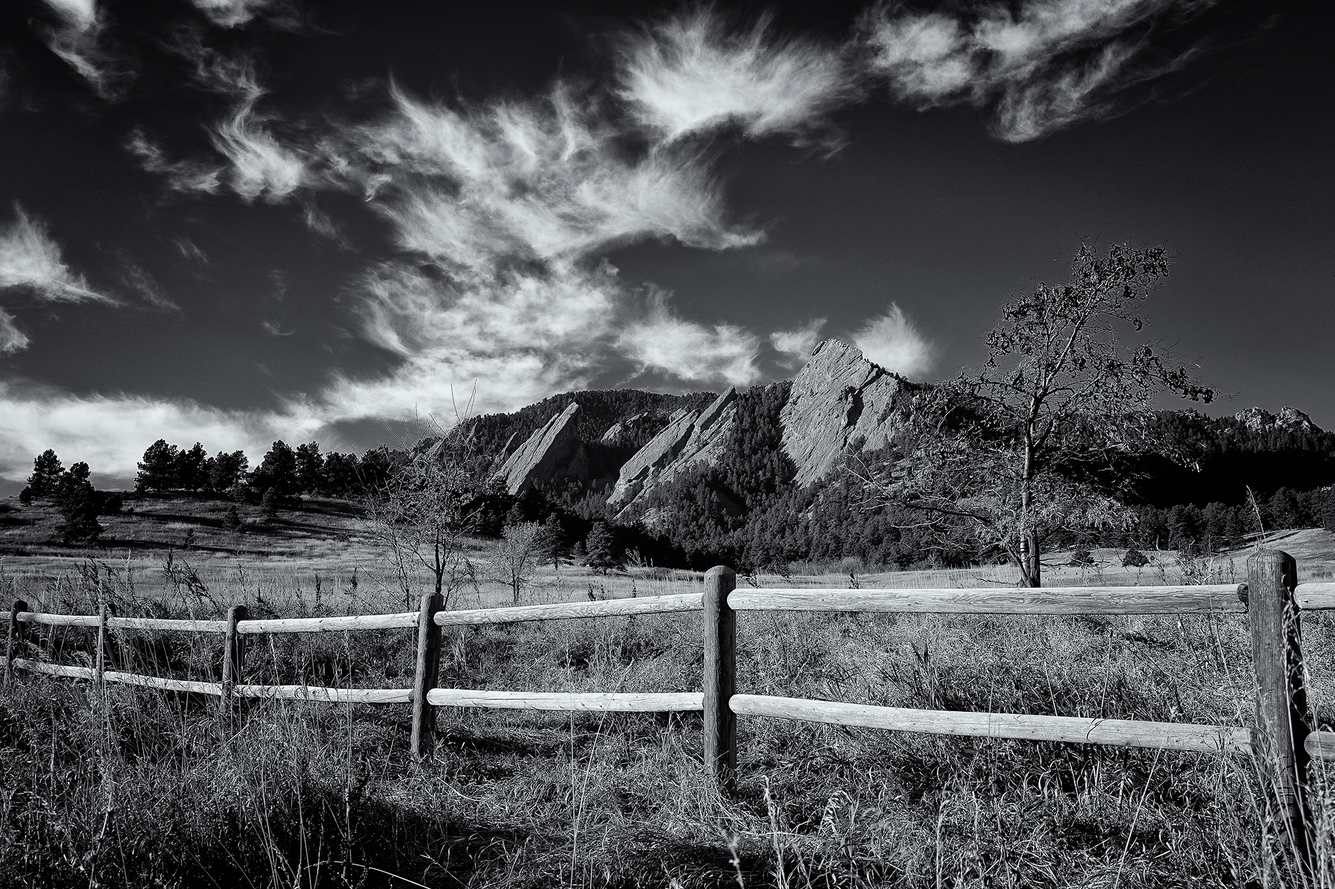
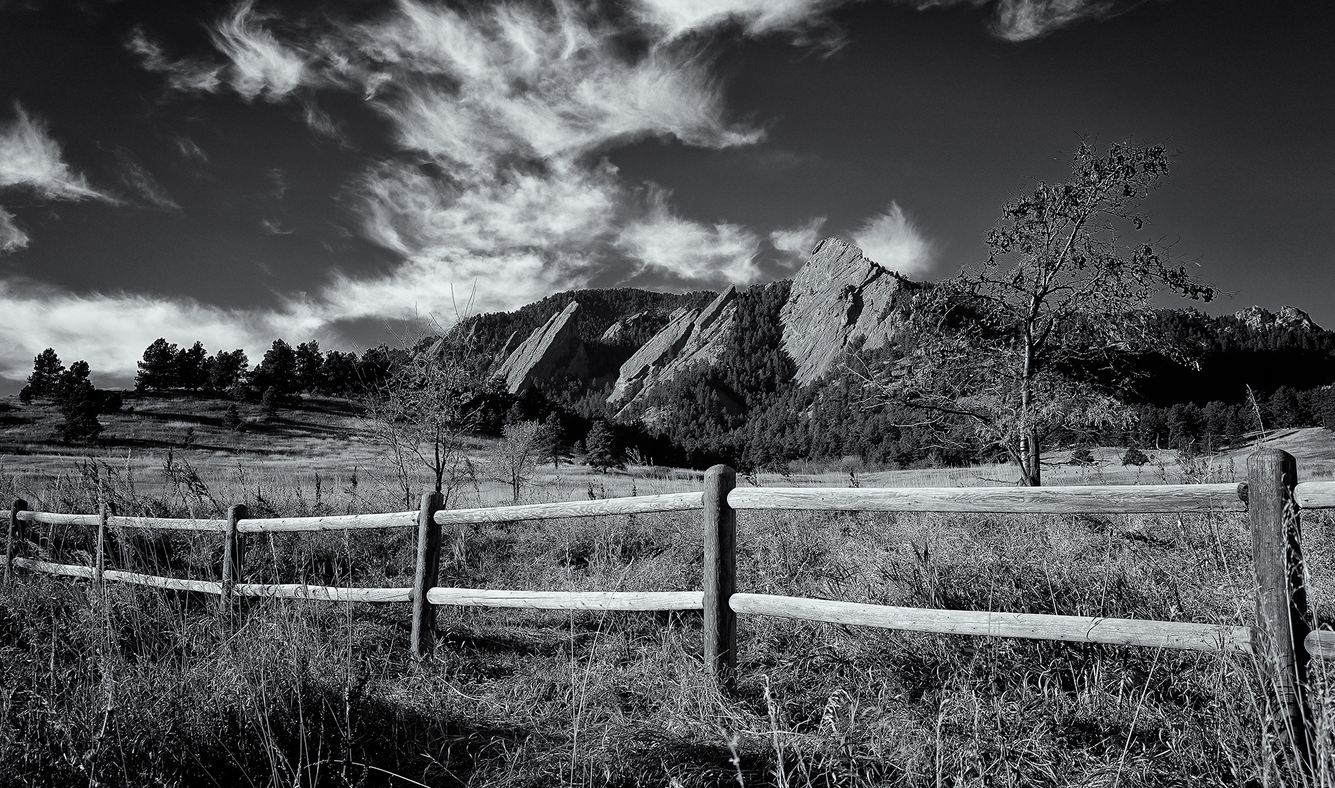
updates

diff --git a/app/public/js/templates/home.html b/app/public/js/templates/home.html
@@ -1,28 +1,80 @@
 <main>
-  <div class="row">
-    <div class="cover">
-      <img src="./images/other/canyonlands.jpg">
+  <div class="section-box" id="links">
+    <p>ENTER</p>
+    <p class="big-L" ng-show="!isBigLVisible" ng-click="isBigLVisible = !isBigLVisible">LF</p>
+    <div class="main-links" ng-show="isBigLVisible">
+      <p du-smooth-scroll="about" duration="1500" class="top-links">ABOUT LANE</p>
+      <p du-smooth-scroll="tool-belt" duration="2000" class="top-links">TOOL BELT</p>
+      <p du-smooth-scroll="projects" duration="2000" class="top-links">PROJECTS</p>
+      <a ui-sref="resume"><p class="top-links">RESUME</p></a>
+      <a ui-sref="contact"><p class="top-links">CONTACT</p></a>
     </div>
+  </div>
+  <div  ng-show="isBigLVisible" class="row">
+    <!-- <div class="cover">
+      <img src="./images/other/flatirons-min.jpg">
+    </div> -->
     <div class="info col-md-1"></div>
     <div class="info md-10">
-      <div class="thumbnail">
-        <div class="caption">
-          <p class="subtitles">About Lane</p class="subtitles">
-          <p class="summaries">
-            Lane Faison is a full-stack web developer currently studying at Galvanize in Denver, Colorado. Lane is a United States Marine Corps veteran and a graduate of the University of Colorado at Boulder with a degree in Mathematics. After college, Lane spent 18 months in the IT industry working as a technical recruiter. During that time he was exposed to a world of exciting and incredibly innovative companies. Wanting to be a part of the IT movement, Lane left the recruiting world to take on the six-month immersive web developer program at Galvanize.
-          </p>
-          <p class="subtitles">Goals</p class="subtitles">
-          <p class="summaries">
-            Lane's first goal is to soak up every ounce of knowledge he can while in the Galvanize program so he is well-prepared to take on a junior developer position upon graduation. This industry requires a never-ending pursuit of knowledge and it continues to evolve year after year. Thus, one of his goals is to keep up with trending technologies while never losing focus on the core tools he is best at. He would also like to be working full-time after graduation on a strong development team where he can learn something new every day from his colleagues. His final goal is to travel to Africa and Southeast Asia within the next 5 years.
-          </p>
-          <p class="subtitles" id="skills">Tools &amp; Technologies:</p>
-          <div ng-repeat="tool in $ctrl.tools" class='tech-divs' ng-mouseover="hover = true" ng-mouseleave="hover = false">
-            <img class="tech-logos" src="{{ tool.image_url }}">
-            <p class="tech-name" ng-show="hover">{{ tool.name }}</p>
+      <div class="section-box" id="about">
+        <span du-smooth-scroll="links" duration="1500" class="chevrons glyphicon glyphicon-chevron-up" aria-hidden="true"></span>
+        <div class="thumbnail">
+          <div class="caption">
+            <p class="subtitles">About Lane</p class="subtitles">
+            <p class="summaries">
+              Lane Faison is a full-stack web developer currently studying at Galvanize in Denver, Colorado. Lane is a United States Marine Corps veteran and a graduate of the University of Colorado at Boulder with a degree in Mathematics. After college, Lane spent 18 months in the IT industry working as a technical recruiter. During that time he was exposed to a world of exciting and incredibly innovative companies. Wanting to be a part of the IT movement, Lane left the recruiting world to take on the six-month immersive web developer program at Galvanize.
+            </p>
+            <p class="subtitles">Goals</p class="subtitles">
+            <p class="summaries">
+              Lane's first goal is to soak up every ounce of knowledge he can while in the Galvanize program so he is well-prepared to take on a junior developer position upon graduation. This industry requires a never-ending pursuit of knowledge and it continues to evolve year after year. Thus, one of his goals is to keep up with trending technologies while never losing focus on the core tools he is best at. He would also like to be working full-time after graduation on a strong development team where he can learn something new every day from his colleagues. His final goal is to travel to Africa and Southeast Asia within the next 5 years.
+            </p>
           </div>
         </div>
+        <span du-smooth-scroll="tool-belt" duration="1500" class="chevrons glyphicon glyphicon-chevron-down" aria-hidden="true"></span>
+      </div>
+      <div class="section-box" id="tool-belt">
+        <span du-smooth-scroll="links" duration="1500" class="chevrons glyphicon glyphicon-chevron-up" aria-hidden="true"></span>
+        <div class="thumbnail" id="tool-belt-thumbnail">
+          <div class="caption">
+            <p class="subtitles" id="skills">Tool Belt:</p>
+            <div ng-repeat="tool in $ctrl.tools" class='tech-divs' ng-mouseover="hover = true" ng-mouseleave="hover = false">
+              <img class="tech-logos" src="{{ tool.image_url }}">
+              <p class="tech-name" ng-show="hover">{{ tool.name }}</p>
+            </div>
+          </div>
+        </div>
+        <span du-smooth-scroll="projects" duration="1500" class="chevrons glyphicon glyphicon-chevron-down" aria-hidden="true"></span>
       </div>
     </div>
     <div class="info col-md-1"></div>
+  </div>
+  <!-- <div class="cover">
+    <img src="./images/other/presentation.png">
+  </div> -->
+  <div ng-show="isBigLVisible" class="chevrons">
+    <span du-smooth-scroll="links" duration="1500" class="chevrons glyphicon glyphicon-chevron-up"  id="projects" aria-hidden="true"></span>
+  </div>
+  <div ng-show="isBigLVisible" class="project-section">
+    <section class="projects-title">My Projects</section>
+    <div class='project-div'>
+      <div ng-repeat="project in $ctrl.projects" class="col-md-4">
+          <div class="thumbnail project-thumbnail">
+            <a class='no-decoration' ng-href="{{ project.project_url}}">
+              <img class="project_img" src="{{ project.image_url }}">
+            </a>
+            <div class="project-caption">
+              <h3 class="no-decoration">{{ project.title }}</h3>
+              <p class="project-description no-decoration">{{ project.description }}</p>
+            </div>
+          </div>
+      </div>
+    </div>
+  </div>
+  <div ng-show="isBigLVisible" class="cover">
+    <img src="./images/other/presentation.png">
+    <div du-smooth-scroll="links" duration="1000" class="text-over-image">
+      <span class="chevrons glyphicon glyphicon-chevron-up" aria-hidden="true"></span>
+      <p>Back to Top</p>
+    </div>
   </div>
 </main>

diff --git a/app/public/styles/home.css b/app/public/styles/home.css
@@ -2,27 +2,24 @@ main {
   min-width: 510px;
 }
 
-/************** COVER SECTION **************/
-
-.cover {
-  background: #000;
+.main-links a {
+  text-decoration: none;
 }
 
-.cover img {
-  width: 80%;
-  margin: 0 10%;
-  margin: #000;
+.main-links {
+  margin: 80px auto;
 }
 
 /************** ABOUT SECTION **************/
 .info {
-  margin: 20px 10%;
+  margin: 0 10%;
 }
 
 .info .thumbnail {
   background-color: #eee;
   border: 10px solid #333;
   padding: 0 10px;
+  margin-bottom: 0;
 }
 
 .caption .summaries {
@@ -61,4 +58,88 @@ main {
 .tech-name {
   padding-bottom: 50px;
   font-weight: bold;
+}
+
+/*********PROJECT TEST**********/
+.big-L {
+  opacity: 0.5;
+  color: #EA4533;
+  font-size: 250px;
+  font-weight: bold;
+  text-align: center;
+  filter: blur(3.5px);
+  transition: all 0.75s ease-in;
+}
+
+.big-L:hover {
+  opacity: 1;
+  cursor: default;
+  text-decoration: none;
+  filter: blur(0);
+  transform: rotate3d(1, 2, -1, 360deg);
+}
+
+.top-links {
+  color: #EA4533;
+  font-size: 50px;
+  font-weight: bold;
+  letter-spacing: 2px;
+  text-align: center;
+  filter: blur(1.5px);
+  transition: all 0.75s ease-in;
+}
+
+.top-links:hover {
+  letter-spacing: 100px;
+  cursor: default;
+  text-decoration: none;
+  transform: rotate3d(1, 0, 0, 360deg);
+  filter: blur(0);
+}
+
+.section-box {
+  width: 100%;
+  height: 800px;
+  display: flex;
+  flex-direction: column;
+  justify-content: center;
+}
+
+#about {
+  margin-top: 500px
+}
+
+#tool-belt {
+  margin-top: 500px
+  margin-bottom: 500px;
+}
+
+#tool-belt-thumbnail {
+  min-height: 350px;
+}
+
+#projects {
+  margin-top: 200px;
+}
+
+/************** COVER FOOTER SECTION **************/
+
+.cover {
+  background: #000;
+  position: relative;
+}
+
+.cover img {
+  width: 100%;
+  margin: #000;
+}
+
+.text-over-image {
+  position: absolute;
+  bottom: 0;
+  width: 100%;
+  text-align: center;
+  font-weight: bold;
+  color: #EA4533;
+  font-size: 30px;
 }

diff --git a/app/seeds/create_projects.js b/app/seeds/create_projects.js
@@ -3,7 +3,7 @@ exports.seed = (knex, Promise) => {
     .then( () => {
       return knex('projects').insert([
 
-        {title: 'Mario Kart Cheats!', description: 'This AngularJS application allows users to quickly interact with the various posts on the site. Users are able to search and filter results as well as vote on the posts.', image_url:'./images/logos-projects/mariokart.png', project_url:'https://mario-kart-cheats.herokuapp.com/'},
+        {title: 'Mario Kart Cheats!', description: 'This AngularJS application lets users quickly interact with the various posts on the site. Users can search and filter results as well as vote on a post.', image_url:'./images/logos-projects/mariokart.png', project_url:'https://mario-kart-cheats.herokuapp.com/'},
 
         {title: 'gReads A Lot', description: 'This application allows users to interact with and search a database full of authors and books, as well as create their own authors and books.', image_url:'./images/logos-projects/greads.png', project_url:'https://g-reads-alot.herokuapp.com/index.html'},
 

diff --git a/app/public/styles/projects.css b/app/public/styles/projects.css
@@ -1,5 +1,9 @@
-.main-projects {
-  margin-bottom: 1500px;
+.project-section {
+  background: #fff;
+  min-height: 1200px;
+  padding-bottom: 100px;
+  border-top: 10px solid #333;
+  border-bottom: 10px solid #333;
 }
 
 .project-div {
@@ -15,24 +19,26 @@
 }
 
 .col-md-4 .project-thumbnail {
+  background: #fff;
   display: flex;
   flex-direction: column;
-  justify-content: space-between;
-  height: 500px;
+  justify-content: center;
+  height: 450px;
   min-width: 250px;
-  background: #fff;
-  border: 10px solid #333;
   margin-bottom: 30px;
+  border: 10px solid #333;
+  color: #fff;
+  transition: all 0.50s ease-in;
 }
 
 .col-md-4 .project-thumbnail:hover {
   border: 10px solid #EA4533;
-
 }
 
 .project_img {
   width: 200px;
   padding-top: 20px;
+  margin-bottom: 10px;
 }
 
 
@@ -45,12 +51,9 @@
 
 .project-caption h3 {
   font-size: 30px;
+  margin-top: 0;
 }
 
-.btn-visit {
-  width: 75px;
-  font-size: 20px;
-  position: relative;
-  bottom: 15px;
-  margin-top: 20px;
+.project-description {
+  font-size: 18px;
 }

diff --git a/app/public/js/pages/home.component.js b/app/public/js/pages/home.component.js
@@ -7,13 +7,17 @@
       controller: HomeController
     })
 
-  HomeController.$inject = ['$http']
-  function HomeController($http) {
+  HomeController.$inject = ['$http','$location','$anchorScroll']
+  function HomeController($http,$location,$anchorScroll) {
     const vm = this
 
     vm.$onInit = function () {
       $http.get('/tools').then(function (result) {
         vm.tools = result.data
+      })
+      $http.get('/projects').then(function (result) {
+        vm.projects = result.data
+        console.log(vm.projects)
       })
     }
 
@@ -23,6 +27,11 @@
 
     vm.hoverOut = function () {
       this.hover = false;
+    }
+
+    vm.gotoAbout = function () {
+      $location.hash('about')
+      $anchorScroll
     }
   }
 }())

diff --git a/app/public/index.html b/app/public/index.html
@@ -17,7 +17,6 @@
   <body>
     <navbar></navbar>
     <ui-view></ui-view>
-    <footer></footer>
 
     <script src="/angular/angular.min.js"></script>
     <script src="/angular-ui-router/release/angular-ui-router.min.js"></script>
@@ -25,6 +24,7 @@
     <script src="/js/app.config.js"></script>
     <script src="/moment/moment.js"></script>
     <script src="/angular-moment/angular-moment.js"></script>
+    <script src="/angular-scroll/angular-scroll.js"></script>
     <script src="/js/pages/portfolio.service.js"></script>
     <script src="/js/pages/contact.component.js"></script>
     <script src="/js/pages/footer.component.js"></script>

diff --git a/app/public/styles/main.css b/app/public/styles/main.css
@@ -5,6 +5,9 @@
 
 body {
   padding-top: 50px;
+  background-image: url('../images/other/flatirons-min.jpg');
+  background-repeat: no-repeat;
+  background-attachment: fixed;
 }
 
 /************** NAVBAR **************/
@@ -30,12 +33,14 @@ a.navbar-brand {
   color: #EA4533;
 }
 
-/************** FOOTER **************/
-
-#footer {
-  min-height: 50px;
-  color: #EA4533;
+/************* SCROLLERS **************/
+.chevrons {
+  color: rgba(234, 70, 52, 0.5);
+  font-size: 50px;
   text-align: center;
-  vertical-align: middle;
-  padding-top: 10px;
+  transition: all 0.5s ease-in;
+}
+
+.chevrons:hover {
+  color: rgba(234, 70, 52, 0.9);
 }

diff --git a/app/public/js/templates/navbar.html b/app/public/js/templates/navbar.html
@@ -9,12 +9,12 @@
       </button>
       <a class="navbar-brand" id="name" href="#" ui-sref="home">Lane Faison: <span class='name-subtitle'>Full Stack Web Developer</span></a>
     </div>
-    <div class="collapse navbar-collapse" id="bs-example-navbar-collapse-1">
+    <!-- <div class="collapse navbar-collapse" id="bs-example-navbar-collapse-1">
       <ul class="nav navbar-nav navbar-right">
         <li><a href="#" ui-sref="portfolio">Portfolio </a></li>
         <li><a href="#" ui-sref="resume">Resume </a></li>
         <li><a href="#" ui-sref="contact">Contact </a></li>
       </ul>
-    </div>
+    </div> -->
   </div>
 </nav>

diff --git a/app/public/js/app.module.js b/app/public/js/app.module.js
@@ -1,4 +1,4 @@
 (function () {
   'use strict'
-  angular.module('app',['ui.router', 'angularMoment'])
+  angular.module('app',['ui.router', 'angularMoment', 'duScroll'])
 }())

diff --git a/app/public/js/templates/contact.html b/app/public/js/templates/contact.html
@@ -11,4 +11,7 @@
       </a>
     </div>
   </div>
+  <div class="cover">
+    <img src="./images/other/presentation.png">
+  </div>
 </main>
